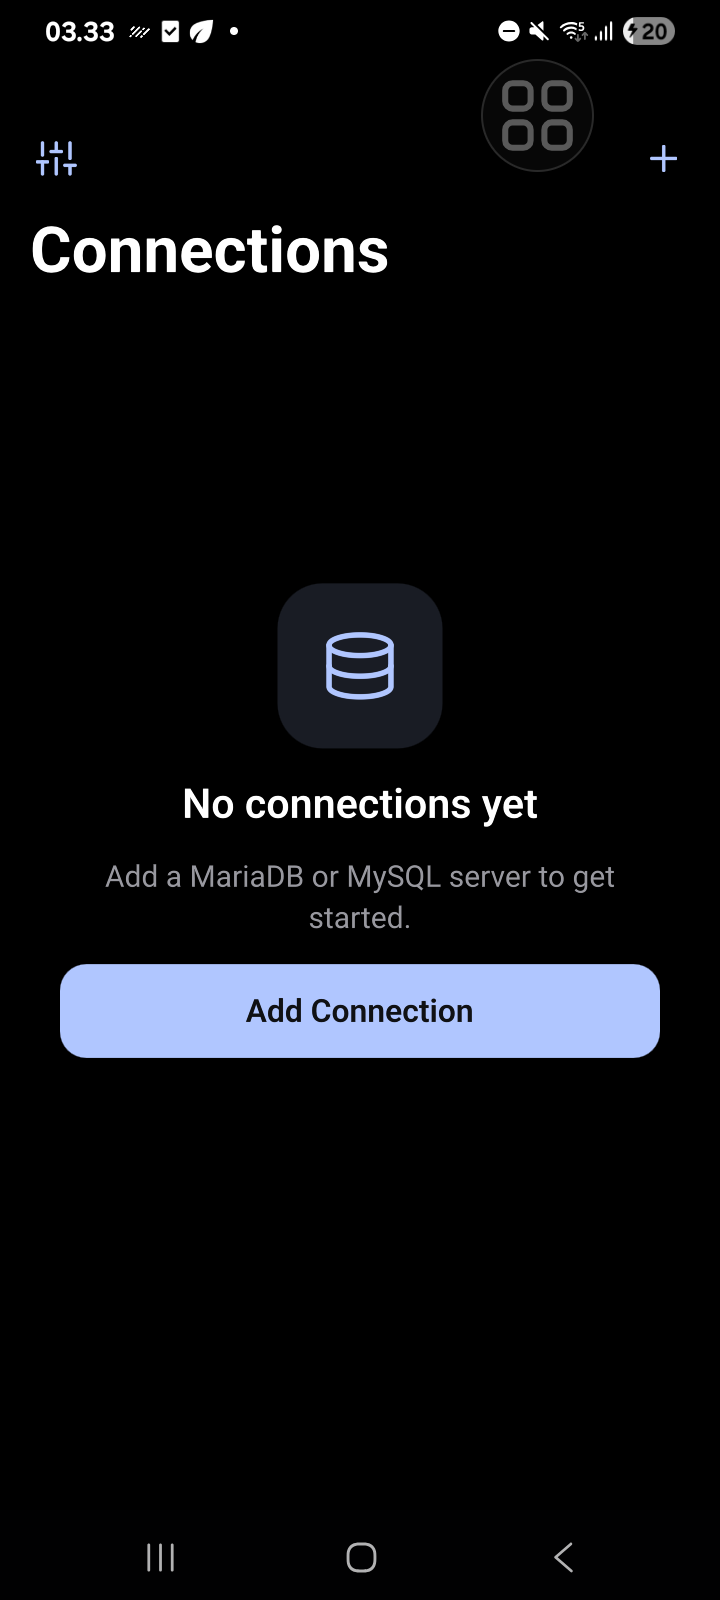
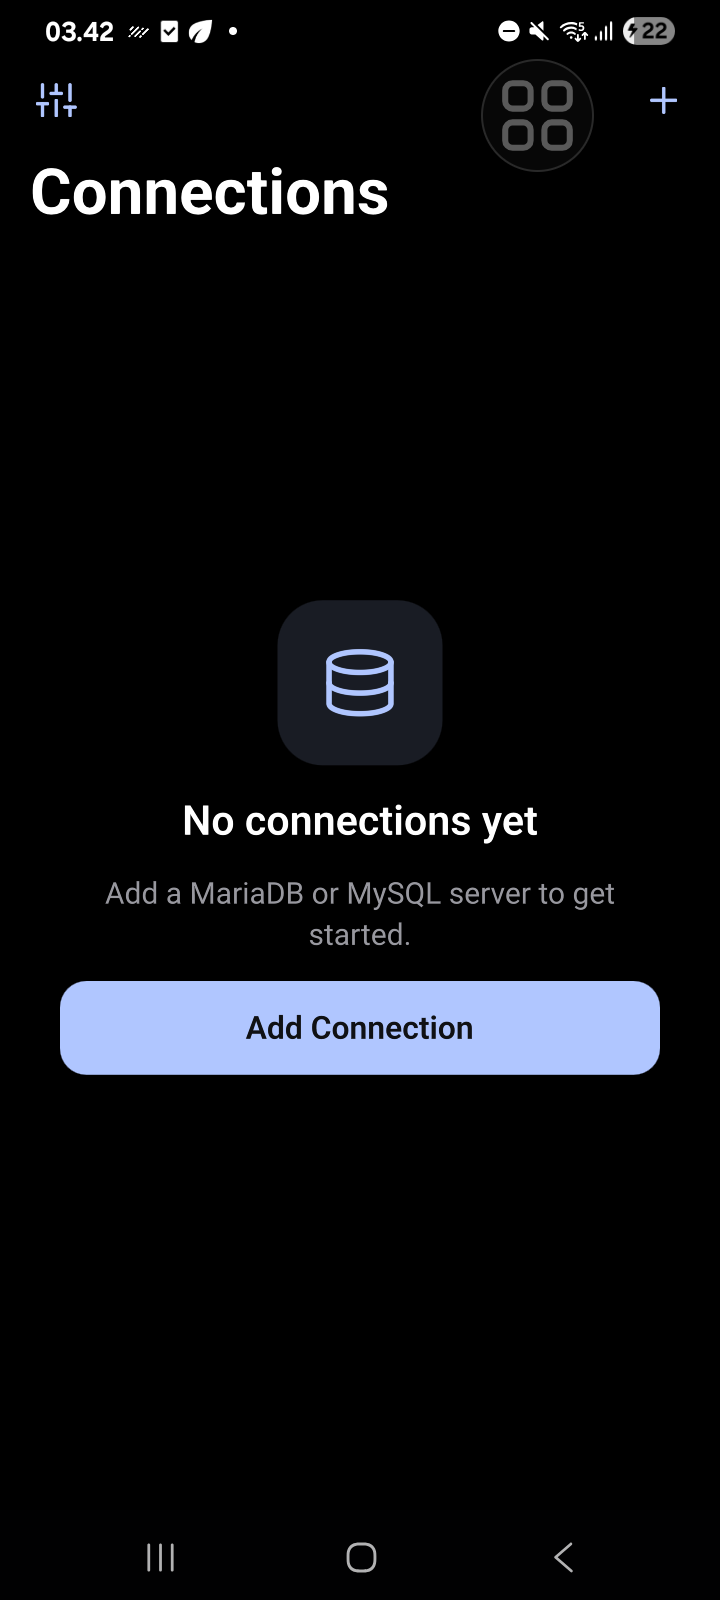
fix(qt6.12): Android Back via window Shortcut

diff --git a/qml/Main.qml b/qml/Main.qml
@@ -48,9 +48,12 @@ ApplicationWindow {
 
     Toast { id: toast; y: win.height - height - Theme.safeBottom - 24; z: 10 }
 
-    // Android back: pop instead of quitting
-    onClosing: function(close) {
-        if (stack.depth > 1) { close.accepted = false; stack.pop() }
+    // Android Back (Qt >= 6.12 no longer sends Window.onClosing; it moves the task to background).
+    // Window-level Shortcut fires regardless of focus; "Back" (not StandardKey.Back) avoids Backspace/Alt+Left.
+    Shortcut {
+        sequences: ["Back"]
+        enabled: Qt.platform.os === "android" && stack.depth > 1
+        onActivated: stack.pop()
     }
 
     // desktop preview helper: NAWI_START=form|formssh|settings
